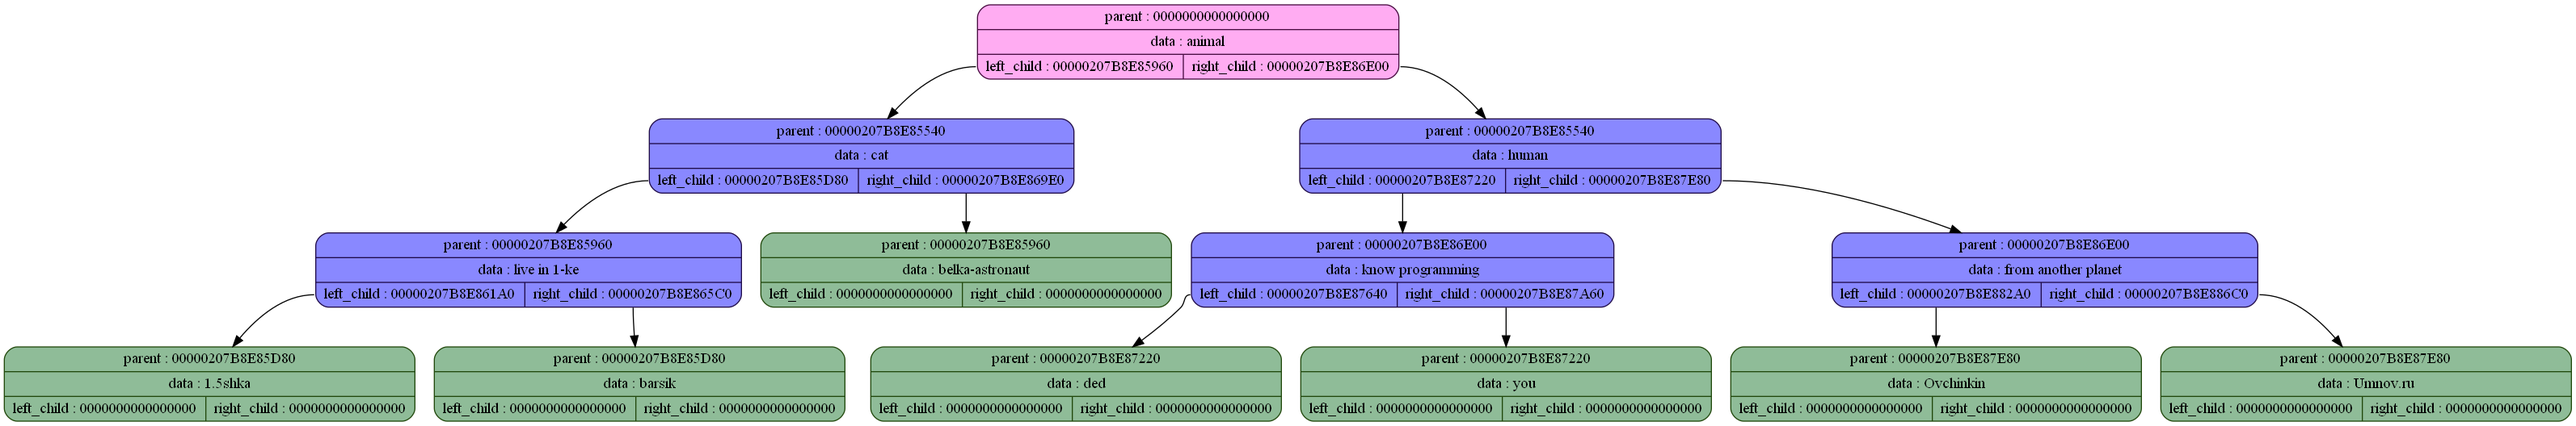
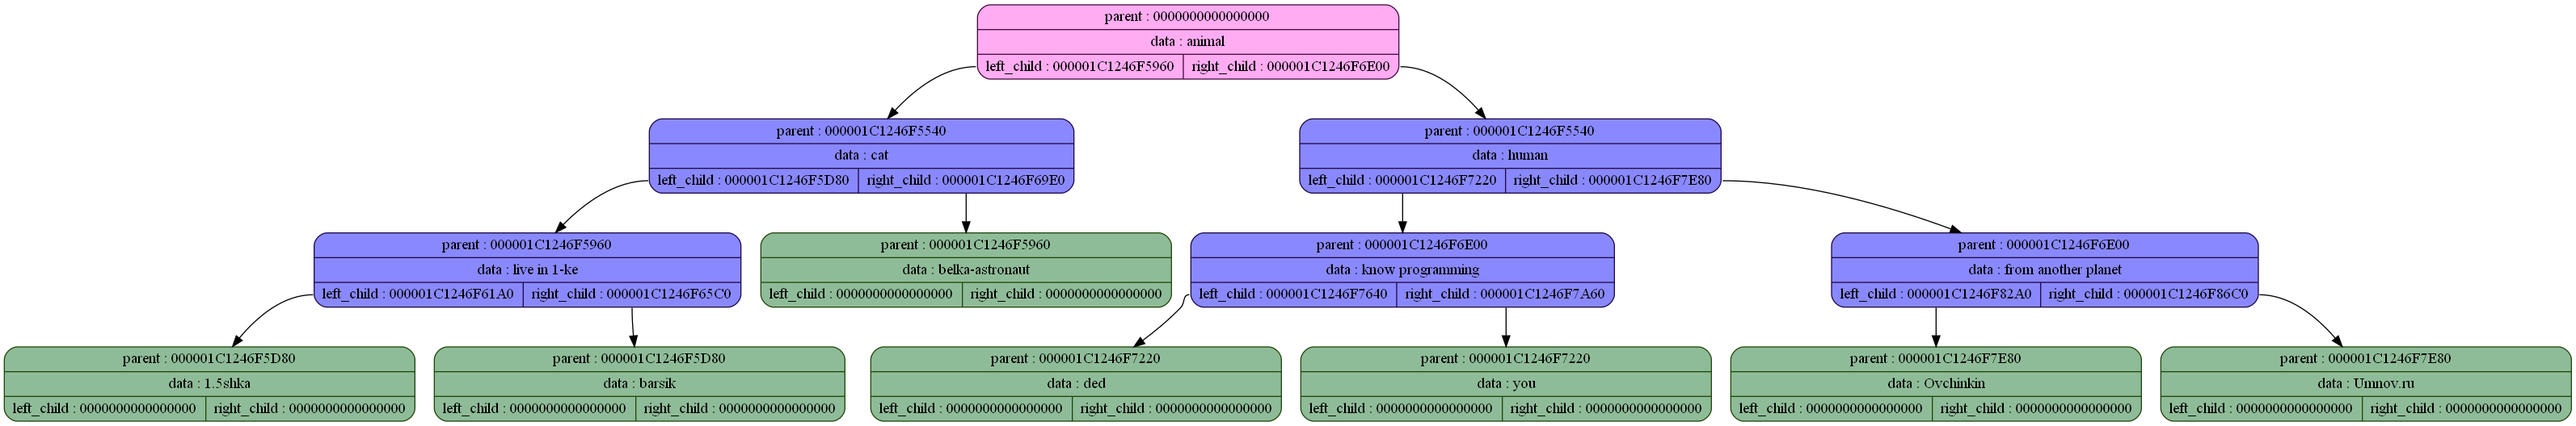
4 gen
add stdlib.h, add determiner mode

diff --git a/akinator_func.cpp b/akinator_func.cpp
@@ -7,6 +7,47 @@
 #include <string.h>
 #include "akinator.h"
 
+void choose_mode (Tree* tree)
+{
+    assert (tree);
+    int flag_mode = -1;
+
+    printf ("Hello! It's me - Akinator, who know all about you thoughts!\n");
+    printf ("Now you must choose, how I'll work with you. If you want to play, press keys: [p] && [Enter]. If you want to"
+            " get a definition of the subject, press keys: [d] && [Enter] and then write the name of your subject.\n");
+    while (flag_mode == -1)
+    {
+        char mode [512] = { } ;
+
+        printf ("Choice:__\b\b");
+        scanf ("%s", mode);
+
+        if (!strcmp (mode, "p"))
+        {
+            guessing_mode (tree -> root_node);
+            flag_mode = 1;
+        } else if (!strcmp (mode, "d"))
+        {
+            char subject [512] = { } ;
+            int stop_trying = 0;
+            printf ("Your subject:_____\b\b\b\b\b");
+            scanf ("%s", subject);
+            while (!determiner_mode (tree -> root_node, subject))
+            {
+                if (stop_trying) scanf ("%s", subject);
+                stop_trying ++ ;
+                if (stop_trying == 5) break;
+                printf ("I don't no it, try, again\n");
+                printf ("Your subject:_____\b\b\b\b\b");
+            }
+            flag_mode = 1;
+        } else
+        {
+            printf ("I SAD: [p] OR [d]!!! I AM VERY ANGRY!!! TRY AGAIN, silly leather sack!!!\n");
+        }
+    }
+}
+
 void guessing_mode (Tree_Node* cur_node)
 {
     assert (cur_node);
@@ -91,6 +132,51 @@ void expansion_akin_tree (Tree_Node* cur_node)
     old_node -> parent_node = cur_node;
 
     printf ("You're so great! You won't deceive me next time!\n");
+}
+
+int determiner_mode (Tree_Node* cur_node, char* find_data)
+{
+    assert (cur_node);
+    assert (find_data);
+    int left_child = -1;
+    int right_child = -1;
+
+    if (!strcmp(cur_node -> data, find_data))
+    {
+        int child_print = 1;
+        while (cur_node -> parent_node != NULL)
+        {
+            if (!child_print)
+                printf ("[not %s] <-", cur_node -> data);
+            else
+                printf ("[%s] <-", cur_node -> data);
+
+            if (cur_node == cur_node -> parent_node -> right_child_node)
+                child_print = 0;
+            else
+                child_print = 1;
+            cur_node = cur_node -> parent_node;
+        }
+
+        if (!child_print)
+            printf ("[not %s]\n", cur_node -> data);
+        else
+            printf ("[%s]\n", cur_node -> data);
+
+        return 1;
+    } else
+    {
+        if (cur_node -> left_child_node)
+            left_child = determiner_mode (cur_node -> left_child_node, find_data);
+
+        if (cur_node -> right_child_node)
+            right_child = determiner_mode (cur_node -> right_child_node, find_data);
+    }
+
+    if (left_child == 1) return 1;
+    if (right_child == 1) return 1;
+    return 0;
+
 }
 
 #endif

diff --git a/tree_func.cpp b/tree_func.cpp
@@ -4,6 +4,7 @@
 #include <stdio.h>
 #include <assert.h>
 #include <ctype.h>
+#include <stdlib.h>
 #include <sys/stat.h>
 #include "tree.h"
 
@@ -115,7 +116,7 @@ void dump_node (struct Tree_Node* node_dump, FILE* dump_file)
     assert (dump_file);
 
     if (node_dump -> parent_node == NULL)
-        fprintf (dump_file, "node%p [color = \"#480b41\", fillcolor = \"#ff00d953\", style = filled, label = \"{parent : %p|data : " SPECIF_TYPE "|{<left>left_child : %p|<right>right_child : %p}}\"];\n",
+        fprintf (dump_file, "node%p [color = \"#480b41\", fillcolor = \"#ff00d953\", style = filled, label = \"{parent : %p|data : " SPECIF_TYPE  "|{<left>left_child : %p|<right>right_child : %p}}\"];\n",
              node_dump, node_dump -> parent_node, node_dump -> data, node_dump -> left_child_node, node_dump -> right_child_node);
     else if (node_dump -> left_child_node == NULL && node_dump -> right_child_node == NULL)
         fprintf (dump_file, "node%p [color = \"#20480b\", fillcolor = \"#11712477\", style = filled, label = \"{parent : %p|data : " SPECIF_TYPE "|{<left>left_child : %p|<right>right_child : %p}}\"];\n",

diff --git a/akinator.cpp b/akinator.cpp
@@ -23,7 +23,9 @@ int main ()
     if((re_akin_file = fopen (PREORDER_FILE, "w")) == NULL)
         assert (0 && "problem with preorder_file\n");
 
-    guessing_mode (akin_tree.root_node);
+    // guessing_mode (akin_tree.root_node);
+
+    choose_mode (&akin_tree);
 
     print_tree_preorder (akin_tree.root_node, re_akin_file);
 

diff --git a/akinator.h b/akinator.h
@@ -6,5 +6,7 @@
 
 void guessing_mode (Tree_Node* cur_node);
 void expansion_akin_tree (Tree_Node* cur_node);
+int determiner_mode (Tree_Node* cur_node, char* find_data);
+void choose_mode (Tree* tree);
 
 #endif
